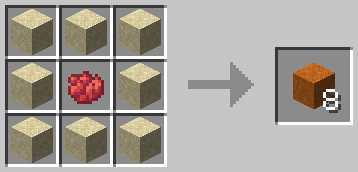
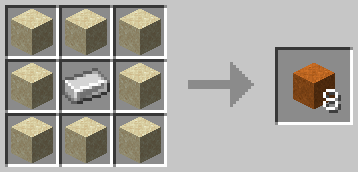
updated brown dye, red sand, gilded blackstone recipe

Changed region(s): [[0.1536, 0.3779, 0.3073, 0.6105]]

diff --git a/RECIPE.md b/RECIPE.md
@@ -314,7 +314,7 @@
 <img src="https://github.com/mygazthehealer/chocos-crafting-tweaks/blob/main/other/crafting/coral_block.gif?raw=true">
 <img src="https://github.com/mygazthehealer/chocos-crafting-tweaks/blob/main/other/crafting/dead_coral_block.gif?raw=true">
 
-- New Recipe for _Coral Block_/_Dead Coral Block_ (can be Crafted from 4 _Coral_/_Dead Coral_ or _Coral Fan_)
+- New Recipe for _Coral Block_/_Dead Coral Block_ (can be Crafted from 4 _Coral_/_Coral Fan_ or _Dead Coral_/_Dead Coral Fan_)
 
 ### Bread
 <img src="https://github.com/mygazthehealer/chocos-crafting-tweaks/blob/main/other/crafting/bread.png?raw=true">
@@ -575,7 +575,7 @@
 ### Gilded Blackstone
 <img src="https://github.com/mygazthehealer/chocos-crafting-tweaks/blob/main/other/crafting/gilded_blackstone.png?raw=true">
 
-- New Recipe for ``Gilded Blackstone`` (can be Crafted from 8 ``Blackstone`` and 1 ``Gold Ingot``)
+- New Recipe for ``Gilded Blackstone`` (can be Crafted from 4 ``Gold Nugget`` and 1 ``Blackstone``)
 
 ### Lightning Rod
 <img src="https://github.com/mygazthehealer/chocos-crafting-tweaks/blob/main/other/crafting/lightning_rod.png?raw=true">
